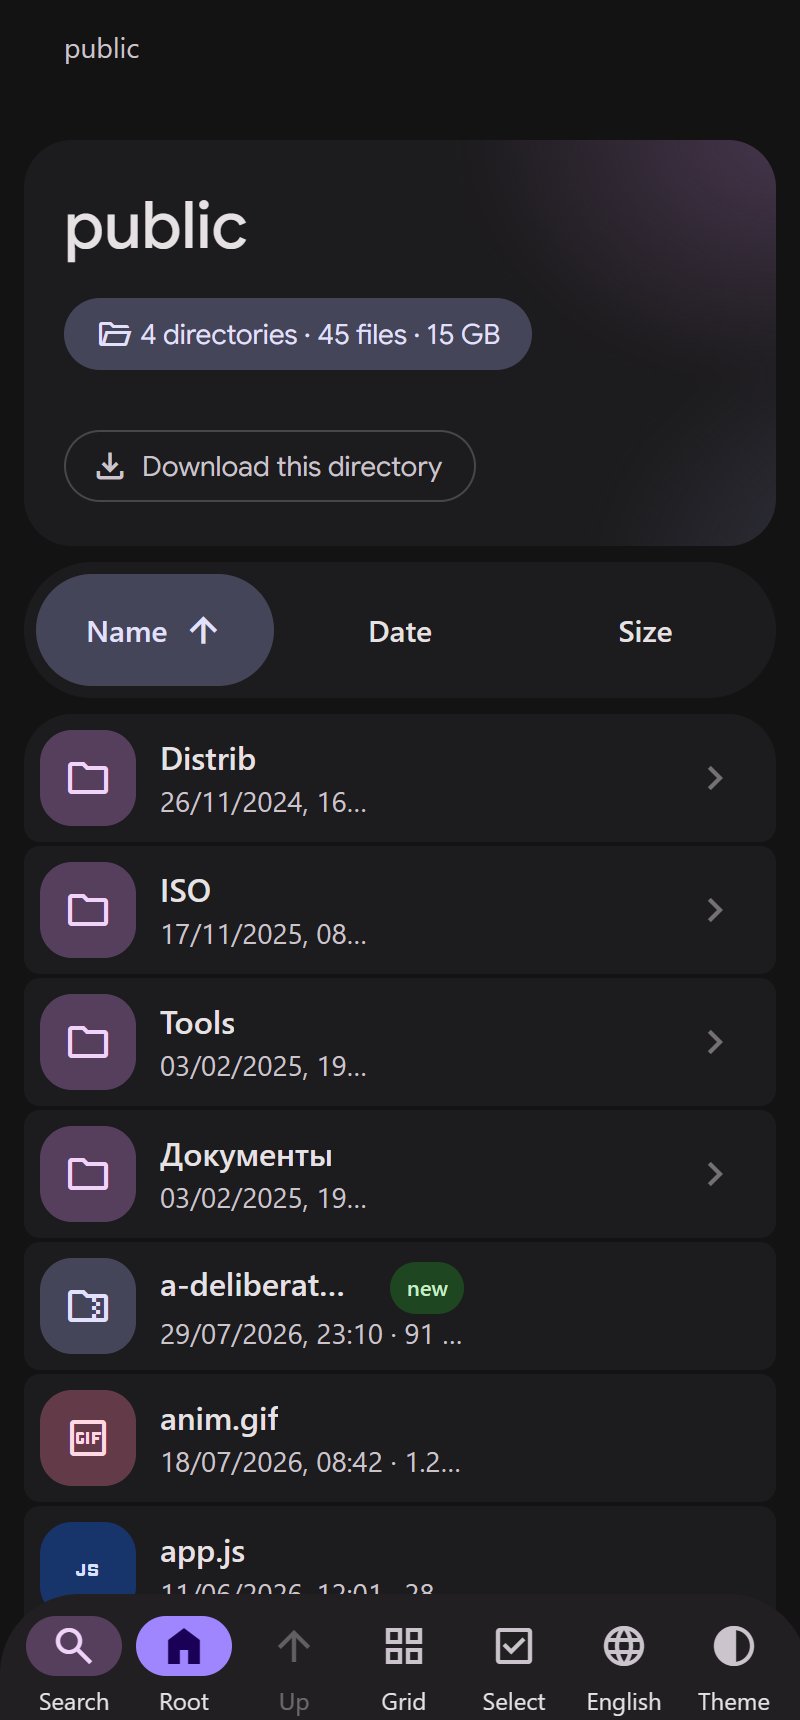
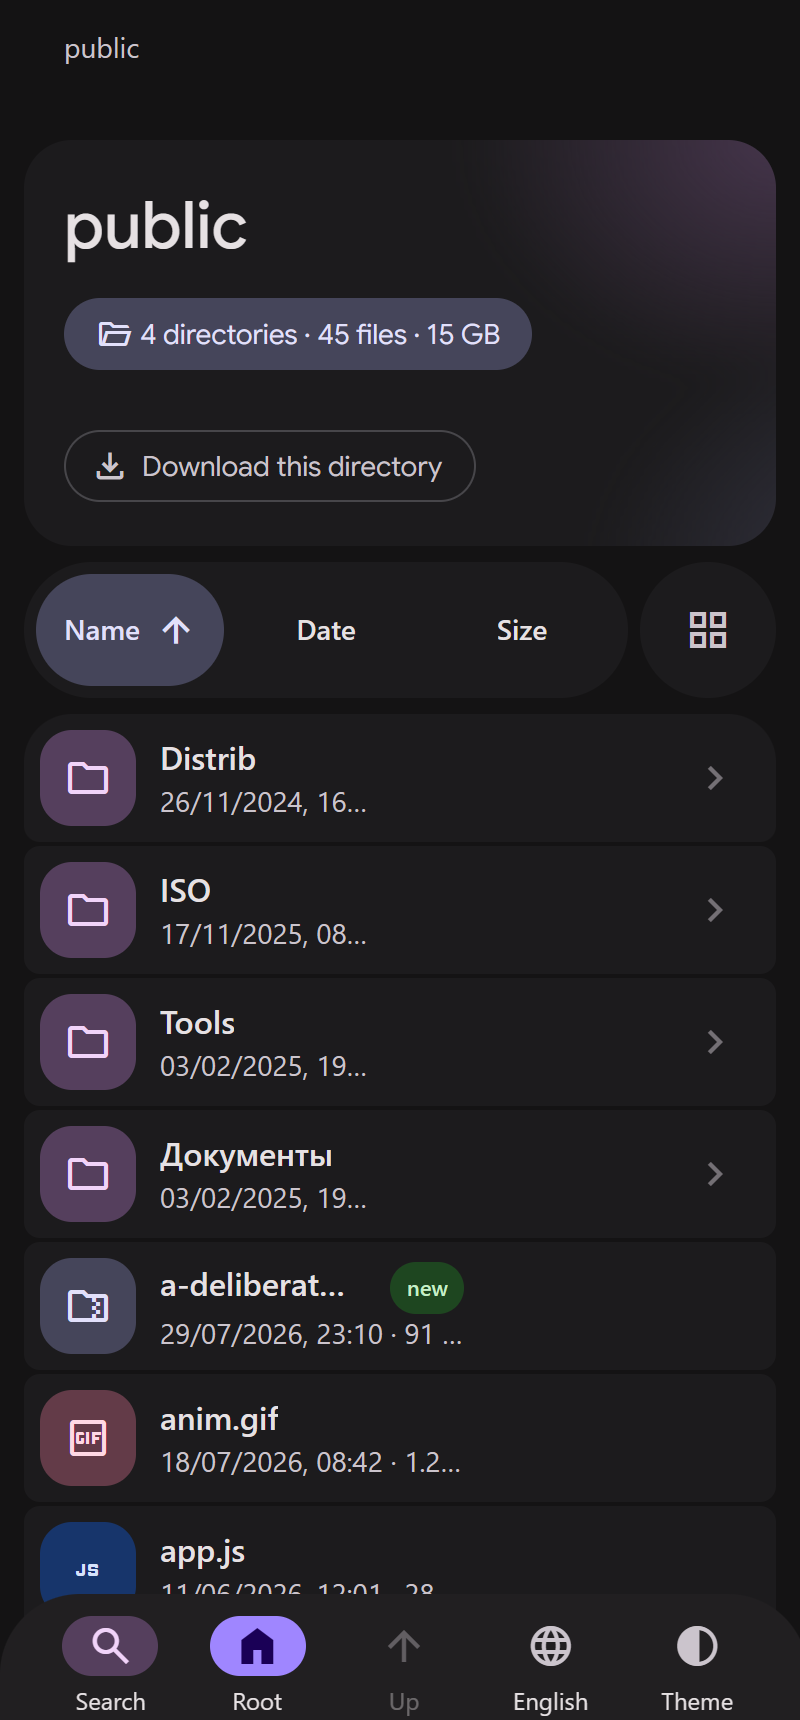
Move the view switch to the list header and thin out the phone bar
The switch between list and grid belongs at the head of the list it
switches, not in the navigation rail: it is a property of the view, not a
destination. It now sits at the right of the sort strip as a second
segment of the same bar, and its glyph shows what the next press will do.

That, plus dropping Select, takes the phone's bottom bar from seven slots
to five, which is what fits without crowding. Select stays on a desktop,
where the rail has room and there is no gesture for it; on touch a long
press on a row starts selection, the way a phone's own file manager does
it, and the tap that ends the press no longer opens the row as well.

Tab labels are nowrap now — the switch takes 68px out of the row on a
phone, and "Name" was wrapping onto two lines rather than letting the
strip scroll.

diff --git a/dist/m3listing.css b/dist/m3listing.css
@@ -519,12 +519,47 @@ html:not(.gs-ready) .gs { visibility: hidden; }
 /* ---------------------------------------------------------------
    7. Tabbed navigation (sorting)
    --------------------------------------------------------------- */
+/* the sort strip and the view switch are two segments of one bar, so the
+   switch reads as part of the list's own header rather than as chrome */
+.listbar { display: flex; align-items: center; gap: 8px; margin-top: 8px; }
+
+.viewbtn {
+  position: relative;
+  overflow: hidden;
+  flex: none;
+  width: 79px; height: 79px;
+  display: grid;
+  place-items: center;
+  border: 0;
+  cursor: pointer;
+  background: var(--surface-c1);
+  color: var(--on-surface-variant);
+  border-radius: var(--r-strip);
+  transition: background-color var(--d-slow) var(--ease),
+              border-radius var(--d-med) var(--ease),
+              color var(--d-med) var(--ease),
+              width var(--d-med) var(--ease),
+              height var(--d-med) var(--ease);
+}
+.viewbtn:hover { background: var(--surface-c2); color: var(--on-surface); border-radius: var(--r-item); }
+.viewbtn::after {
+  content: "";
+  position: absolute;
+  inset: 0;
+  background: currentColor;
+  opacity: 0;
+  pointer-events: none;
+  transition: opacity var(--d-fast) var(--ease);
+}
+.viewbtn:active::after { opacity: .1; }
+
 .tabs {
   display: flex;
   align-items: center;
   gap: 4px;
+  flex: 1 1 auto;
+  min-width: 0;
   height: 79px;
-  margin-top: 8px;
   padding: 8px;
   border-radius: var(--r-strip);
   background: var(--surface-c1);
@@ -555,6 +590,9 @@ html:not(.gs-ready) .gs { visibility: hidden; }
   font-size: 16px;
   font-weight: 500;
   line-height: 44px;
+  /* the strip scrolls if the labels stop fitting; a wrapped tab label is
+     never the right answer */
+  white-space: nowrap;
   border-radius: var(--r-strip);
   transition: background-color var(--d-med) var(--ease),
               border-radius var(--d-med) var(--ease),
@@ -918,7 +956,11 @@ html:not(.gs-ready) .gs { visibility: hidden; }
   .hero { padding: 26px 20px 22px; }
   .hero__title { font-size: clamp(26px, 8.2vw, 52px); }
   .tabs { height: 68px; padding: 6px; }
-  .tab { height: 56px; font-size: 15px; }
+  /* the switch takes 68px out of the row, so the three labels get less
+     room than they had — trimmed to keep them on one line */
+  .tab { height: 56px; font-size: 14px; min-width: 78px; padding: 0 10px; }
+  .listbar { gap: 6px; }
+  .viewbtn { width: 68px; height: 68px; }
   .item { gap: 12px; padding: 8px; }
   .item__ico { width: 48px; height: 48px; }
 }
@@ -1206,10 +1248,12 @@ html:not(.gs-ready) .gs { visibility: hidden; }
 .viewer__next { right: 340px; }
 @media (max-width: 900px) { .viewer__next { right: 20px; } }
 
-/* the credit sits in the rail, not under the list */
+/* What the bottom bar drops on a phone. The credit link belongs in the
+   rail on a desktop but is noise on a phone; Select goes too, because a
+   long press on a row starts selection there — the bar is for getting
+   around, and five slots is what fits without crowding. */
 @media (max-width: 768px) {
-  #m3l-repo { display: none; }
-  /* seven slots have to fit a phone, so trim the per-item floor */
+  #m3l-repo, #m3l-pick { display: none; }
   .rail-item { min-width: 46px; }
   .rail { overflow-x: auto; scrollbar-width: none; }
   .rail::-webkit-scrollbar { display: none; }

diff --git a/dist/top.html b/dist/top.html
@@ -11,7 +11,7 @@
 <link rel="preconnect" href="https://fonts.gstatic.com" crossorigin>
 <!-- bump ?v= on every asset change: proxies and browsers cache these, and a
      stale css/js pair is the one way this can break after an update -->
-<link rel="stylesheet" href="/.m3listing/m3listing.css?v=7">
+<link rel="stylesheet" href="/.m3listing/m3listing.css?v=8">
 
 <script>
 /* Runs before paint: marks the document as JS-capable (so a no-JS client
@@ -32,8 +32,8 @@ window.M3LISTING = {
 };
 /* --------------------------------------------------------------------- */
 </script>
-<script defer src="/.m3listing/m3listing-probe.js?v=7"></script>
-<script defer src="/.m3listing/m3listing.js?v=7"></script>
+<script defer src="/.m3listing/m3listing-probe.js?v=8"></script>
+<script defer src="/.m3listing/m3listing.js?v=8"></script>
 </head>
 
 <body>
@@ -51,10 +51,6 @@ window.M3LISTING = {
       </a>
       <button class="rail-item" id="m3l-up" type="button">
         <span class="rail-item__ico"><span class="gs">arrow_upward</span></span>
-        <span class="rail-item__lbl"></span>
-      </button>
-      <button class="rail-item" id="m3l-view" type="button">
-        <span class="rail-item__ico"><span class="gs">grid_view</span></span>
         <span class="rail-item__lbl"></span>
       </button>
       <button class="rail-item" id="m3l-pick" type="button" aria-pressed="false">
@@ -122,11 +118,16 @@ window.M3LISTING = {
     </div>
   </section>
 
-  <nav class="tabs" role="group" aria-label="sort">
-    <button class="tab" type="button" data-sort="name" aria-pressed="true"></button>
-    <button class="tab" type="button" data-sort="date" aria-pressed="false"></button>
-    <button class="tab" type="button" data-sort="size" aria-pressed="false"></button>
-  </nav>
+  <div class="listbar">
+    <nav class="tabs" role="group" aria-label="sort">
+      <button class="tab" type="button" data-sort="name" aria-pressed="true"></button>
+      <button class="tab" type="button" data-sort="date" aria-pressed="false"></button>
+      <button class="tab" type="button" data-sort="size" aria-pressed="false"></button>
+    </nav>
+    <!-- the view switch sits at the head of the list it switches, the way
+         a file manager puts it, rather than in the rail -->
+    <button class="viewbtn" id="m3l-view" type="button"><span class="gs">grid_view</span></button>
+  </div>
 
   <main class="list"></main>
 

diff --git a/dist/m3listing.js b/dist/m3listing.js
@@ -1169,10 +1169,10 @@
   }
 
   function syncView() {
-    swapIcon($.view.querySelector('.rail-item__ico'),
-             state.view === 'list' ? 'grid_view' : 'view_list');
-    $.view.querySelector('.rail-item__lbl').textContent =
-      state.view === 'list' ? T.viewGrid : T.viewList;
+    var next = state.view === 'list' ? T.viewGrid : T.viewList;
+    swapIcon($.view, state.view === 'list' ? 'grid_view' : 'view_list');
+    $.view.title = next;
+    $.view.setAttribute('aria-label', next);
   }
 
   function syncTheme(mode) {
@@ -1550,10 +1550,30 @@
     a.title = e.name + (e.exact && e.size != null
       ? '\n' + e.size.toLocaleString(LOCALE) + ' ' + UNITS[0] : '');
 
+    /* Touch has no modifier keys, and the phone's bottom bar carries no
+       Select button — a long press starts selection there, the same
+       gesture a phone's own file manager uses. */
+    var pressed = false, pressTimer = null;
+    var pressOff = function () { clearTimeout(pressTimer); pressTimer = null; };
+    a.addEventListener('touchstart', function () {
+      pressed = false;
+      pressTimer = setTimeout(function () {
+        pressed = true;
+        if (!state.picking) setPicking(true);
+        toggleSel(e, i);
+        if (navigator.vibrate) navigator.vibrate(10);
+      }, 500);
+    }, { passive: true });
+    ['touchmove', 'touchend', 'touchcancel'].forEach(function (t) {
+      a.addEventListener(t, pressOff, { passive: true });
+    });
+
     var link = el('a', 'item__link');
     link.href = e.href;
     link.setAttribute('aria-label', e.name);
     link.addEventListener('click', function (ev) {
+      /* the tap that ended a long press must not also open the row */
+      if (pressed) { pressed = false; ev.preventDefault(); return; }
       if (state.picking || ev.ctrlKey || ev.metaKey || ev.shiftKey) {
         ev.preventDefault();
         toggleSel(e, i, ev.shiftKey);

diff --git a/README.md b/README.md
@@ -250,7 +250,8 @@ collect 429s instead of answers.
 - Type-ahead: typing letters jumps to the first matching name
 - A "new" badge on anything modified in the last few days
 - Sort by name, date or size as tabs; click the active tab to flip direction; folders first
-- List and grid views, remembered per browser
+- List and grid views, remembered per browser; the switch sits at the right of the sort
+  strip, at the head of the list it switches, the way a file manager puts it
 - Light / dark / follow-system theme, remembered per browser, chosen from a menu that
   ticks the active option and says which way the system currently leans
 - Navigation rail on desktop, bottom bar under 768px — the site's own adaptive split
@@ -259,8 +260,10 @@ collect 429s instead of answers.
 - Per-row copy-link and download buttons
 - **Multi-select and batch download** — the leading chip is also the checkbox (it turns into
   a tick on hover), `Ctrl`/`⌘`+click and `Shift`+click work on the row, `Ctrl`/`⌘`+`A` takes
-  everything on screen, and the rail's *Select* button turns on a touch-friendly picking
-  mode. A floating action bar then downloads the selected files or copies all their links.
+  everything on screen, the rail's *Select* button turns on a picking mode for pointerless
+  work, and on a phone — where the bottom bar has no room for it — a long press on a row
+  starts selection. A floating action bar then downloads the selected files or copies all
+  their links.
   Downloads are fired one at a time ~350 ms apart, which keeps the browser's
   "allow multiple downloads?" question to a single prompt. There is no backend, so there is
   no server-side zip — folders can be selected for their links but not downloaded
